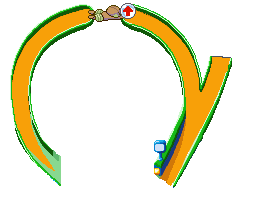
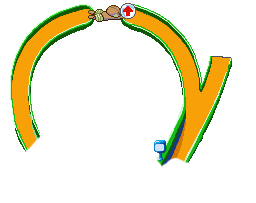
Added score, ball sprite and more

Changed region(s): [[0.0938, 0.6798, 0.25, 0.9163], [0.5938, 0.7685, 0.75, 0.9163]]

diff --git a/Physics2_class4 - handout/ModuleSceneIntro.cpp b/Physics2_class4 - handout/ModuleSceneIntro.cpp
@@ -33,7 +33,9 @@ bool ModuleSceneIntro::Start()
 	rick = App->textures->Load("game/pinball/rick_head.png");
 	bonus_fx = App->audio->LoadFx("game/pinball/bonus.wav");
 	background = App->textures->Load("game/pinball/ruby.png");
-
+	loop = App->textures->Load("game/pinball/loopup.png");
+	font = App->textures->Load("game/pinball/font.png");
+	take_font();
 
 	sensor = App->physics->CreateRectangleSensor(47, 187, 5, 5);
 	sensor2 = App->physics->CreateRectangleSensor(170, 197, 5, 5);
@@ -177,6 +179,9 @@ bool ModuleSceneIntro::Start()
 
 	// - ANIMATIONS - pokemons
 
+	sprite_ball.PushBack({106,119,16,16});
+
+
 	pikachu.PushBack({ 46,21,25,24 });
 	pikachu.PushBack({ 72,21,26,28 });
 	pikachu.speed = 0.04f;
@@ -240,6 +245,7 @@ update_status ModuleSceneIntro::Update()
 	if (App->input->GetKey(SDL_SCANCODE_SPACE) == KEY_DOWN) {
 		b2Vec2 force = b2Vec2(0, -150);
 		ball->body->ApplyForceToCenter(force, 1);
+		
 	}
 	if (App->input->GetKey(SDL_SCANCODE_A) == KEY_DOWN) {
 		b2Vec2 force = b2Vec2(-40, 0);
@@ -256,6 +262,7 @@ update_status ModuleSceneIntro::Update()
 	if (App->input->GetKey(SDL_SCANCODE_Z) == KEY_DOWN) {
 		b2Vec2 force = b2Vec2(0, -150);
 		ball->body->ApplyForceToCenter(force, 1);
+		
 
 
 
@@ -268,6 +275,7 @@ update_status ModuleSceneIntro::Update()
 		right->body->ApplyForceToCenter(force, 1);
 		revoluteJointDef_right.lowerAngle = 30 * DEGTORAD;
 		pikachu_x = 197;
+	
 	}
 
 	if (App->input->GetKey(SDL_SCANCODE_X) == KEY_DOWN) {
@@ -292,15 +300,19 @@ update_status ModuleSceneIntro::Update()
 	}
 
 	if (change == true) {
-		if (shape_map == true) {
-			Shape_Map1();
-			shape_map = !shape_map;
-			change = !change;
-		}
-		else {
-			Shape_Map2();
-			shape_map = !shape_map;
-			change = !change;
+		if (ball->body->GetLinearVelocity().y < -0.1 || ball->body->GetLinearVelocity().y > 1.9) {
+			if (shape_map == true) {
+				Shape_Map1();
+				shape_map = !shape_map;
+				change = !change;
+				loop_blit = true;
+			}
+			else {
+				Shape_Map2();
+				shape_map = !shape_map;
+				change = !change;
+				loop_blit = false;
+			}
 		}
 	}
 
@@ -397,11 +409,21 @@ update_status ModuleSceneIntro::Update()
 		App->renderer->Blit(sprites, 232, 358, &(spoink_fast.GetCurrentFrame()), 0.01f);
 	}
 	
-	App->renderer->Blit(sprites, 180, 148, &(shark.GetCurrentFrame()), 0.01f);
+	
 
 	App->renderer->Blit(sprites, 210, 145, &(square_pika.GetCurrentFrame()), 0.01f);
+	square_pika.speed = 0.0f;
+	App->renderer->Blit(sprites, ball->body->GetPosition().x*25 - 7 , ball->body->GetPosition().y*25 -7, &(sprite_ball.GetCurrentFrame()));
+	if (loop_blit == true) {
+		App->renderer->Blit(loop, 0, 26);
+	}
+	App->renderer->Blit(sprites, 180, 148, &(shark.GetCurrentFrame()), 0.01f);
 
+	//BLITFONT
+	//App->renderer->Blit(font, 1, 1, &numbers[4]);
+	blit_font();
 	return UPDATE_CONTINUE;
+
 }
 
 void ModuleSceneIntro::OnCollision(PhysBody* bodyA, PhysBody* bodyB)
@@ -758,5 +780,26 @@ void ModuleSceneIntro::Shape_Map2()
 	ricks.add(App->physics->CreateChain(0, 0, shape1, 36));
 
 
+
+}
+
+void ModuleSceneIntro::take_font()
+{
+	
+	for (int x = 0; x< 10; x++) {
+		numbers[x] = { x*13 + 3, 3, 13,24 };
+	}
+
+
+}
+
+void ModuleSceneIntro::blit_font() {
+	int score_temp = score;
+	for (int i = 8; i >= 0; i--) {
+	
+		int temp = score_temp % 10;
+		App->renderer->Blit(font, i * 13 + 3, 1, &numbers[temp]);
+		score_temp = score_temp / 10;
+	}
 
 }

diff --git a/Physics2_class4 - handout/ModuleSceneIntro.h b/Physics2_class4 - handout/ModuleSceneIntro.h
@@ -21,6 +21,8 @@ public:
 	void OnCollision(PhysBody* bodyA, PhysBody* bodyB);
 	void Shape_Map1();
 	void Shape_Map2();
+	void take_font();
+	void blit_font();
 public:
 	p2List<PhysBody*> circles;
 	p2List<PhysBody*> boxes;
@@ -37,16 +39,21 @@ public:
 	b2Body* body_bumper2;
 	b2Body* body_bumper3;
 
+	SDL_Rect numbers[10];
+	uint score = 00000000;
+
 	PhysBody* launcher;
 	PhysBody* staticLauncher;
 	b2PrismaticJointDef prismaticJoint_launcher;
 
 	bool shape_map = false;
 	bool change = false;
+	bool loop_blit = true;
 
 
 	PhysBody* sensor;
 	PhysBody* sensor2;
+	
 
 	bool sensed;
 
@@ -54,6 +61,8 @@ public:
 	SDL_Texture* circle;
 	SDL_Texture* box;
 	SDL_Texture* rick;
+	SDL_Texture* loop;
+	SDL_Texture* font;
 	uint bonus_fx;
 	p2Point<int> ray;
 	bool ray_on;
@@ -68,6 +77,8 @@ public:
 	Animation chic;
 	Animation shark;
 	Animation ballena;
+	Animation sprite_ball;
+
 
 	Animation square_pika;
 

diff --git a/Physics2_class4 - handout/ModulePhysics.cpp b/Physics2_class4 - handout/ModulePhysics.cpp
@@ -351,10 +351,7 @@ void ModulePhysics::BeginContact(b2Contact* contact)
 	PhysBody* physA = (PhysBody*)contact->GetFixtureA()->GetBody()->GetUserData();
 	PhysBody* physB = (PhysBody*)contact->GetFixtureB()->GetBody()->GetUserData();
 	
-	
-	if (physA == App->scene_intro->sensor || physA == App->scene_intro->sensor2) {
-		App->scene_intro->change = true;
-	}
+
 
 	
 	if(physA && physA->listener != NULL)
@@ -369,6 +366,11 @@ void ModulePhysics::EndContact(b2Contact * contact)
 	PhysBody* physA = (PhysBody*)contact->GetFixtureA()->GetBody()->GetUserData();
 	PhysBody* physB = (PhysBody*)contact->GetFixtureB()->GetBody()->GetUserData();
 	
+
+
+	if (physA == App->scene_intro->sensor || physA == App->scene_intro->sensor2) {
+		App->scene_intro->change = true;
+	}
 
 	if (physA && physA->listener != NULL)
 		physA->listener->OnCollision(physA, physB);
